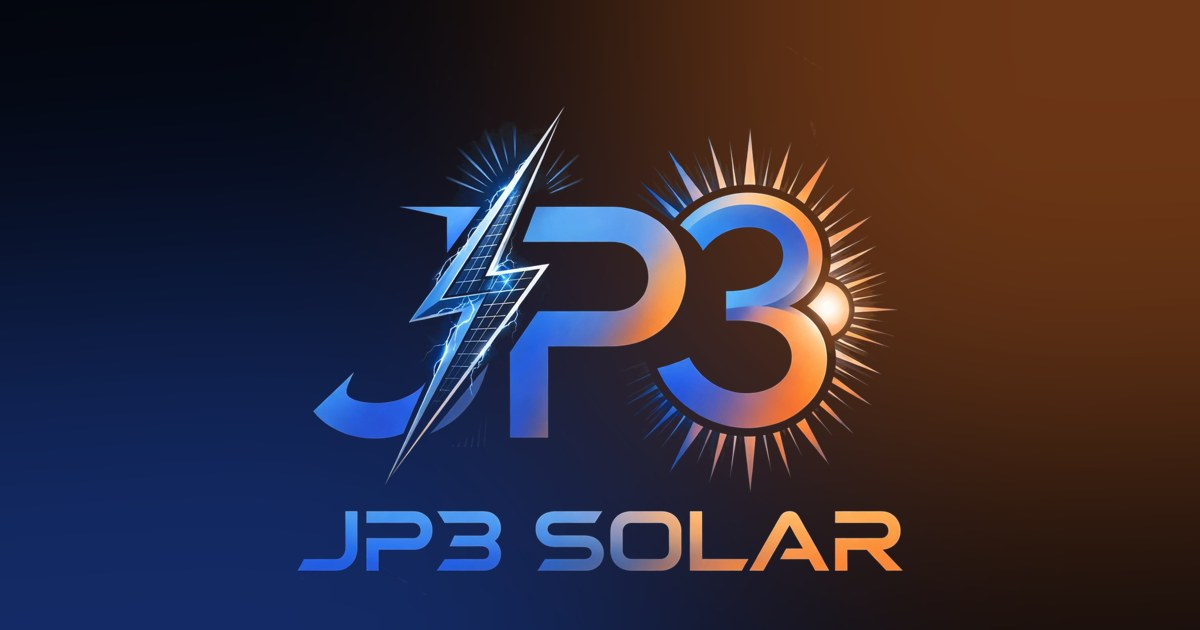
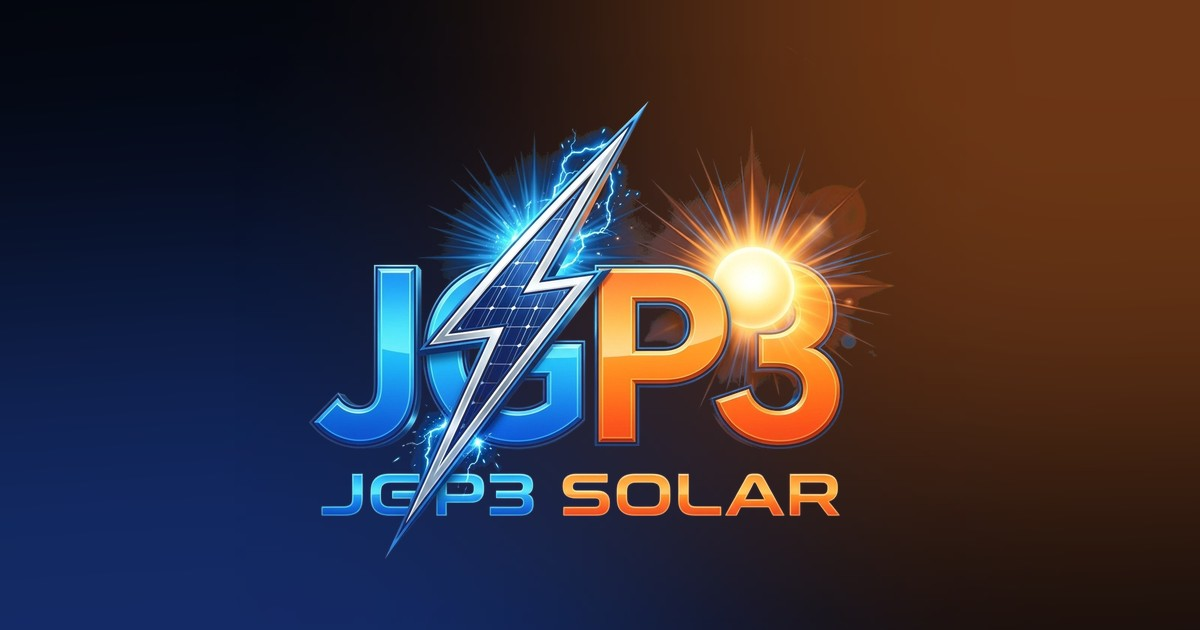
actualizando pagina

Changed region(s): [[0.2467, 0.181, 0.7708, 0.9048]]

diff --git a/index.html b/index.html
@@ -6,10 +6,10 @@
     <script>document.documentElement.classList.replace('no-js', 'js');</script>
 
     <!-- ============ SEO ============ -->
-    <title>JP3 Solar | Paneles solares, inversores y baterías de litio</title>
-    <meta name="description" content="Paneles solares, inversores y baterías de litio con asesoría experta y soporte técnico postventa. Calcula tu ahorro y cotiza por WhatsApp con JP3 Solar.">
-    <meta name="keywords" content="paneles solares, inversores solares, baterías de litio, LiFePO4, energía solar, sistema solar, ahorro de luz, soporte técnico postventa, JP3 Solar">
-    <meta name="author" content="JP3 Solar">
+    <title>JGP3 Solar | Paneles solares, inversores y baterías de litio</title>
+    <meta name="description" content="Paneles solares, inversores y baterías de litio con asesoría experta y soporte técnico postventa. Calcula tu ahorro y cotiza por WhatsApp con JGP3 Solar.">
+    <meta name="keywords" content="paneles solares, inversores solares, baterías de litio, LiFePO4, energía solar, sistema solar, ahorro de luz, soporte técnico postventa, JGP3 Solar">
+    <meta name="author" content="JGP3 Solar">
     <meta name="robots" content="index, follow, max-image-preview:large">
     <meta name="theme-color" content="#04060d">
     <!-- TODO producción: reemplazar por la URL final del dominio -->
@@ -17,12 +17,12 @@
 
     <meta property="og:type" content="website">
     <meta property="og:locale" content="es_MX">
-    <meta property="og:site_name" content="JP3 Solar">
-    <meta property="og:title" content="JP3 Solar | Haz que el sol pague tu luz">
+    <meta property="og:site_name" content="JGP3 Solar">
+    <meta property="og:title" content="JGP3 Solar | Haz que el sol pague tu luz">
     <meta property="og:description" content="Paneles solares, inversores y baterías de litio con asesoría experta y soporte técnico postventa.">
     <meta property="og:image" content="img/og-image.jpg"><!-- TODO producción: usar URL absoluta -->
     <meta name="twitter:card" content="summary_large_image">
-    <meta name="twitter:title" content="JP3 Solar | Haz que el sol pague tu luz">
+    <meta name="twitter:title" content="JGP3 Solar | Haz que el sol pague tu luz">
     <meta name="twitter:description" content="Paneles solares, inversores y baterías de litio. Calcula tu ahorro y cotiza por WhatsApp.">
     <meta name="twitter:image" content="img/og-image.jpg">
 
@@ -51,10 +51,10 @@
         {
           "@type": ["LocalBusiness", "Store"],
           "@id": "#negocio",
-          "name": "JP3 Solar",
+          "name": "JGP3 Solar",
           "description": "Venta de paneles solares, inversores y baterías de litio, con asesoría y soporte técnico postventa.",
           "image": "img/og-image.jpg",
-          "logo": "img/logo-full.png",
+          "logo": "img/logo-completo.png",
           "telephone": "+52 81 3122 2982",
           "areaServed": "MX",
           "knowsAbout": ["Paneles solares", "Inversores solares", "Baterías de litio LiFePO4", "Sistemas fotovoltaicos"],
@@ -67,7 +67,7 @@
         },
         {
           "@type": "WebSite",
-          "name": "JP3 Solar",
+          "name": "JGP3 Solar",
           "inLanguage": "es-MX"
         },
         {
@@ -98,7 +98,7 @@
 <!-- ======================================================================
      LOADER: pantalla de carga con anillo de progreso y cortina
      ====================================================================== -->
-<div id="loader" class="loader" role="status" aria-live="polite" aria-label="Cargando JP3 Solar">
+<div id="loader" class="loader" role="status" aria-live="polite" aria-label="Cargando JGP3 Solar">
     <div class="loader__panel loader__panel--top"></div>
     <div class="loader__panel loader__panel--bottom"></div>
     <div class="loader__stage">
@@ -114,7 +114,7 @@
                 <circle class="loader__track" cx="100" cy="100" r="92"/>
                 <circle class="loader__arc" cx="100" cy="100" r="92" pathLength="100"/>
             </svg>
-            <img class="loader__logo" src="img/logo-completo.png" alt="" width="1100" height="849">
+            <img class="loader__logo" src="img/logo-completo.png" alt="" width="953" height="754">
         </div>
         <p class="loader__label">
             <span class="loader__pct"><b data-loader-pct>0</b>%</span>
@@ -130,8 +130,8 @@
      ====================================================================== -->
 <header class="nav" data-nav>
     <div class="nav__bar">
-        <a class="nav__brand" href="#inicio" aria-label="JP3 Solar, ir al inicio">
-            <img src="img/logo-completo.png" alt="" width="1100" height="849" class="nav__mark">
+        <a class="nav__brand" href="#inicio" aria-label="JGP3 Solar, ir al inicio">
+            <img src="img/logo-completo.png" alt="" width="953" height="754" class="nav__mark">
         </a>
         <nav class="nav__links" aria-label="Principal">
             <a href="#soluciones">Soluciones</a>
@@ -141,7 +141,7 @@
             <a href="#faq">Preguntas</a>
         </nav>
         <div class="nav__actions">
-            <a class="btn btn--primary btn--sm" href="https://wa.me/528131222982" data-wa="Hola JP3 Solar, quiero cotizar un sistema solar." target="_blank" rel="noopener">
+            <a class="btn btn--primary btn--sm" href="https://wa.me/528131222982" data-wa="Hola JGP3 Solar, quiero cotizar un sistema solar." target="_blank" rel="noopener">
                 <i class="ph-fill ph-whatsapp-logo" aria-hidden="true"></i><span>Cotizar ahora</span>
             </a>
             <button class="nav__burger" type="button" aria-expanded="false" aria-controls="menu" aria-label="Abrir menú">
@@ -162,7 +162,7 @@
         <a href="#contacto"><span>Contacto</span><i class="ph-bold ph-arrow-up-right" aria-hidden="true"></i></a>
     </nav>
     <div class="menu__foot">
-        <a class="btn btn--primary btn--lg" href="https://wa.me/528131222982" data-wa="Hola JP3 Solar, quiero hablar con un asesor." target="_blank" rel="noopener">
+        <a class="btn btn--primary btn--lg" href="https://wa.me/528131222982" data-wa="Hola JGP3 Solar, quiero hablar con un asesor." target="_blank" rel="noopener">
             <i class="ph-fill ph-whatsapp-logo" aria-hidden="true"></i><span>Hablar con un asesor</span>
         </a>
         <a class="menu__tel" href="tel:+528131222982">81 3122 2982</a>
@@ -189,7 +189,7 @@
                 <h1 class="hero__title" id="hero-title" data-split>Haz que el sol <span class="grad">pague tu luz.</span></h1>
                 <p class="hero__sub" data-hero-in>Paneles solares, inversores y baterías de litio con asesoría experta y soporte técnico postventa.</p>
                 <div class="hero__cta" data-hero-in>
-                    <a class="btn btn--primary btn--lg magnetic" href="https://wa.me/528131222982" data-wa="Hola JP3 Solar, quiero mi cotización de energía solar." target="_blank" rel="noopener">
+                    <a class="btn btn--primary btn--lg magnetic" href="https://wa.me/528131222982" data-wa="Hola JGP3 Solar, quiero mi cotización de energía solar." target="_blank" rel="noopener">
                         <i class="ph-fill ph-whatsapp-logo" aria-hidden="true"></i><span>Quiero mi cotización</span>
                     </a>
                     <a class="btn btn--ghost btn--lg" href="#calculadora">
@@ -261,7 +261,7 @@
                         <span class="tile__icon"><i class="ph-bold ph-solar-panel" aria-hidden="true"></i></span>
                         <h3 class="h3">Paneles solares</h3>
                         <p>Captura el sol con módulos de alta eficiencia para tu casa, tu negocio o tu industria.</p>
-                        <a class="link-arrow" href="https://wa.me/528131222982" data-wa="Hola JP3 Solar, quiero paneles solares para mi techo." target="_blank" rel="noopener">Quiero paneles para mi techo <i class="ph-bold ph-arrow-right" aria-hidden="true"></i></a>
+                        <a class="link-arrow" href="https://wa.me/528131222982" data-wa="Hola JGP3 Solar, quiero paneles solares para mi techo." target="_blank" rel="noopener">Quiero paneles para mi techo <i class="ph-bold ph-arrow-right" aria-hidden="true"></i></a>
                     </div>
                 </article>
 
@@ -298,7 +298,7 @@
                         <span class="tile__icon"><i class="ph-bold ph-headset" aria-hidden="true"></i></span>
                         <h3 class="h3">Asesoría y soporte postventa</h3>
                         <p>Te guiamos antes de comprar y te acompañamos después. Un asesor real resuelve tus dudas técnicas.</p>
-                        <a class="link-arrow" href="https://wa.me/528131222982" data-wa="Hola JP3 Solar, quiero asesoría para mi proyecto solar." target="_blank" rel="noopener">Quiero asesoría ahora <i class="ph-bold ph-arrow-right" aria-hidden="true"></i></a>
+                        <a class="link-arrow" href="https://wa.me/528131222982" data-wa="Hola JGP3 Solar, quiero asesoría para mi proyecto solar." target="_blank" rel="noopener">Quiero asesoría ahora <i class="ph-bold ph-arrow-right" aria-hidden="true"></i></a>
                     </div>
                 </article>
             </div>
@@ -320,7 +320,7 @@
             </h2>
             <div class="expand__caption" data-expand-caption>
                 <p>Cada rayo que cae sobre tu techo es energía que hoy no estás aprovechando. Conviértela en ahorro.</p>
-                <a class="btn btn--primary btn--lg" href="https://wa.me/528131222982" data-wa="Hola JP3 Solar, estoy listo para aprovechar la energía de mi techo." target="_blank" rel="noopener">
+                <a class="btn btn--primary btn--lg" href="https://wa.me/528131222982" data-wa="Hola JGP3 Solar, estoy listo para aprovechar la energía de mi techo." target="_blank" rel="noopener">
                     <i class="ph-fill ph-whatsapp-logo" aria-hidden="true"></i><span>Estoy listo, empecemos</span>
                 </a>
             </div>
@@ -429,7 +429,7 @@
                             <span class="pcard__tag">Inversor</span>
                             <h3>Growatt SPF 3 a 6 kW</h3>
                             <p>Inversor solar monofásico con pantalla LCD y diseño de pared.</p>
-                            <a class="pcard__cta" href="https://wa.me/528131222982" data-wa="Hola JP3 Solar, quiero cotizar el Inversor Growatt SPF 3 a 6 kW." target="_blank" rel="noopener">Cotizar este equipo <i class="ph-bold ph-arrow-up-right" aria-hidden="true"></i></a>
+                            <a class="pcard__cta" href="https://wa.me/528131222982" data-wa="Hola JGP3 Solar, quiero cotizar el Inversor Growatt SPF 3 a 6 kW." target="_blank" rel="noopener">Cotizar este equipo <i class="ph-bold ph-arrow-up-right" aria-hidden="true"></i></a>
                         </div>
                     </li>
 
@@ -442,7 +442,7 @@
                             <span class="pcard__tag">Batería de litio</span>
                             <h3>Felicity Solar de pared</h3>
                             <p>Almacenamiento de pared con indicador circular de estado.</p>
-                            <a class="pcard__cta" href="https://wa.me/528131222982" data-wa="Hola JP3 Solar, quiero cotizar la Batería de pared Felicity Solar." target="_blank" rel="noopener">Cotizar este equipo <i class="ph-bold ph-arrow-up-right" aria-hidden="true"></i></a>
+                            <a class="pcard__cta" href="https://wa.me/528131222982" data-wa="Hola JGP3 Solar, quiero cotizar la Batería de pared Felicity Solar." target="_blank" rel="noopener">Cotizar este equipo <i class="ph-bold ph-arrow-up-right" aria-hidden="true"></i></a>
                         </div>
                     </li>
 
@@ -455,7 +455,7 @@
                             <span class="pcard__tag">Inversor</span>
                             <h3>MUST Solar Inverter</h3>
                             <p>Inversor de pared con pantalla LCD y controles frontales.</p>
-                            <a class="pcard__cta" href="https://wa.me/528131222982" data-wa="Hola JP3 Solar, quiero cotizar el Inversor solar MUST." target="_blank" rel="noopener">Cotizar este equipo <i class="ph-bold ph-arrow-up-right" aria-hidden="true"></i></a>
+                            <a class="pcard__cta" href="https://wa.me/528131222982" data-wa="Hola JGP3 Solar, quiero cotizar el Inversor solar MUST." target="_blank" rel="noopener">Cotizar este equipo <i class="ph-bold ph-arrow-up-right" aria-hidden="true"></i></a>
                         </div>
                     </li>
 
@@ -468,7 +468,7 @@
                             <span class="pcard__tag">Batería de litio</span>
                             <h3>Growatt Hope 5.0L</h3>
                             <p>Módulos de rack apilables: crece según tu consumo.</p>
-                            <a class="pcard__cta" href="https://wa.me/528131222982" data-wa="Hola JP3 Solar, quiero cotizar la Batería Growatt Hope 5.0L." target="_blank" rel="noopener">Cotizar este equipo <i class="ph-bold ph-arrow-up-right" aria-hidden="true"></i></a>
+                            <a class="pcard__cta" href="https://wa.me/528131222982" data-wa="Hola JGP3 Solar, quiero cotizar la Batería Growatt Hope 5.0L." target="_blank" rel="noopener">Cotizar este equipo <i class="ph-bold ph-arrow-up-right" aria-hidden="true"></i></a>
                         </div>
                     </li>
 
@@ -481,7 +481,7 @@
                             <span class="pcard__tag">Inversor</span>
                             <h3>Growatt con pantalla a color</h3>
                             <p>Diseño compacto para monitorear tu energía de un vistazo.</p>
-                            <a class="pcard__cta" href="https://wa.me/528131222982" data-wa="Hola JP3 Solar, quiero cotizar el Inversor Growatt con pantalla a color." target="_blank" rel="noopener">Cotizar este equipo <i class="ph-bold ph-arrow-up-right" aria-hidden="true"></i></a>
+                            <a class="pcard__cta" href="https://wa.me/528131222982" data-wa="Hola JGP3 Solar, quiero cotizar el Inversor Growatt con pantalla a color." target="_blank" rel="noopener">Cotizar este equipo <i class="ph-bold ph-arrow-up-right" aria-hidden="true"></i></a>
                         </div>
                     </li>
 
@@ -494,7 +494,7 @@
                             <span class="pcard__tag">Batería de litio</span>
                             <h3>Banco modular MUST LiFePO4</h3>
                             <p>Módulos apilables más batería de pared para crecer por etapas.</p>
-                            <a class="pcard__cta" href="https://wa.me/528131222982" data-wa="Hola JP3 Solar, quiero cotizar el Banco modular de baterías MUST LiFePO4." target="_blank" rel="noopener">Cotizar este equipo <i class="ph-bold ph-arrow-up-right" aria-hidden="true"></i></a>
+                            <a class="pcard__cta" href="https://wa.me/528131222982" data-wa="Hola JGP3 Solar, quiero cotizar el Banco modular de baterías MUST LiFePO4." target="_blank" rel="noopener">Cotizar este equipo <i class="ph-bold ph-arrow-up-right" aria-hidden="true"></i></a>
                         </div>
                     </li>
 
@@ -507,7 +507,7 @@
                             <span class="pcard__tag">Batería de litio</span>
                             <h3>MUST LiFePO4 de pared</h3>
                             <p>Litio de pared con pantalla de estado y conexiones frontales.</p>
-                            <a class="pcard__cta" href="https://wa.me/528131222982" data-wa="Hola JP3 Solar, quiero cotizar la Batería de pared MUST LiFePO4." target="_blank" rel="noopener">Cotizar este equipo <i class="ph-bold ph-arrow-up-right" aria-hidden="true"></i></a>
+                            <a class="pcard__cta" href="https://wa.me/528131222982" data-wa="Hola JGP3 Solar, quiero cotizar la Batería de pared MUST LiFePO4." target="_blank" rel="noopener">Cotizar este equipo <i class="ph-bold ph-arrow-up-right" aria-hidden="true"></i></a>
                         </div>
                     </li>
 
@@ -520,7 +520,7 @@
                             <span class="pcard__tag">Inversor</span>
                             <h3>Growatt de pared</h3>
                             <p>Acabado blanco con panel frontal oscuro, hecho para sistemas fotovoltaicos.</p>
-                            <a class="pcard__cta" href="https://wa.me/528131222982" data-wa="Hola JP3 Solar, quiero cotizar el Inversor Growatt de pared." target="_blank" rel="noopener">Cotizar este equipo <i class="ph-bold ph-arrow-up-right" aria-hidden="true"></i></a>
+                            <a class="pcard__cta" href="https://wa.me/528131222982" data-wa="Hola JGP3 Solar, quiero cotizar el Inversor Growatt de pared." target="_blank" rel="noopener">Cotizar este equipo <i class="ph-bold ph-arrow-up-right" aria-hidden="true"></i></a>
                         </div>
                     </li>
 
@@ -533,7 +533,7 @@
                             <span class="pcard__tag">Batería de litio</span>
                             <h3>Growatt de rack</h3>
                             <p>Terminales de potencia y puertos de comunicación para integrarla fácil.</p>
-                            <a class="pcard__cta" href="https://wa.me/528131222982" data-wa="Hola JP3 Solar, quiero cotizar la Batería de rack Growatt." target="_blank" rel="noopener">Cotizar este equipo <i class="ph-bold ph-arrow-up-right" aria-hidden="true"></i></a>
+                            <a class="pcard__cta" href="https://wa.me/528131222982" data-wa="Hola JGP3 Solar, quiero cotizar la Batería de rack Growatt." target="_blank" rel="noopener">Cotizar este equipo <i class="ph-bold ph-arrow-up-right" aria-hidden="true"></i></a>
                         </div>
                     </li>
 
@@ -546,7 +546,7 @@
                             <span class="pcard__tag">Inversor</span>
                             <h3>MUST de montaje robusto</h3>
                             <p>Carcasa resistente y base metálica para una instalación firme.</p>
-                            <a class="pcard__cta" href="https://wa.me/528131222982" data-wa="Hola JP3 Solar, quiero cotizar el Inversor MUST de montaje robusto." target="_blank" rel="noopener">Cotizar este equipo <i class="ph-bold ph-arrow-up-right" aria-hidden="true"></i></a>
+                            <a class="pcard__cta" href="https://wa.me/528131222982" data-wa="Hola JGP3 Solar, quiero cotizar el Inversor MUST de montaje robusto." target="_blank" rel="noopener">Cotizar este equipo <i class="ph-bold ph-arrow-up-right" aria-hidden="true"></i></a>
                         </div>
                     </li>
 
@@ -555,7 +555,7 @@
                             <span class="tile__icon"><i class="ph-bold ph-magnifying-glass" aria-hidden="true"></i></span>
                             <h3>¿No ves el equipo que buscas?</h3>
                             <p>Tenemos más marcas y capacidades. Dinos qué necesitas y lo encontramos.</p>
-                            <a class="btn btn--primary btn--lg" href="https://wa.me/528131222982" data-wa="Hola JP3 Solar, busco un equipo solar y no lo veo en la página. ¿Me ayudan?" target="_blank" rel="noopener">
+                            <a class="btn btn--primary btn--lg" href="https://wa.me/528131222982" data-wa="Hola JGP3 Solar, busco un equipo solar y no lo veo en la página. ¿Me ayudan?" target="_blank" rel="noopener">
                                 <i class="ph-fill ph-whatsapp-logo" aria-hidden="true"></i><span>Pregúntanos por tu equipo</span>
                             </a>
                         </div>
@@ -633,7 +633,7 @@
                     </div>
                 </dl>
 
-                <a class="btn btn--primary btn--lg btn--block" href="https://wa.me/528131222982" data-calc-cta data-wa="Hola JP3 Solar, quiero mi cotización." target="_blank" rel="noopener">
+                <a class="btn btn--primary btn--lg btn--block" href="https://wa.me/528131222982" data-calc-cta data-wa="Hola JGP3 Solar, quiero mi cotización." target="_blank" rel="noopener">
                     <i class="ph-fill ph-whatsapp-logo" aria-hidden="true"></i><span>Estoy listo, quiero este sistema</span>
                 </a>
                 <p class="calc__note">Estimación orientativa con tarifa promedio y 5 horas de sol pico al día. Tu cotización formal se calcula con tu recibo real.</p>
@@ -724,7 +724,7 @@
             </div>
 
             <div class="process__cta" data-reveal>
-                <a class="btn btn--primary btn--lg" href="https://wa.me/528131222982" data-wa="Hola JP3 Solar, quiero dar el primer paso hacia mi sistema solar." target="_blank" rel="noopener">
+                <a class="btn btn--primary btn--lg" href="https://wa.me/528131222982" data-wa="Hola JGP3 Solar, quiero dar el primer paso hacia mi sistema solar." target="_blank" rel="noopener">
                     <i class="ph-fill ph-whatsapp-logo" aria-hidden="true"></i><span>Dar el primer paso</span>
                 </a>
             </div>
@@ -768,7 +768,7 @@
             <div class="faq__copy" data-reveal>
                 <h2 class="h2" id="faq-title" data-split>Resuelve tus dudas antes de dar el paso</h2>
                 <p class="lead">Lo que más nos preguntan quienes quieren pasarse a la energía solar.</p>
-                <a class="btn btn--dark btn--lg" href="https://wa.me/528131222982" data-wa="Hola JP3 Solar, tengo una duda sobre energía solar." target="_blank" rel="noopener">
+                <a class="btn btn--dark btn--lg" href="https://wa.me/528131222982" data-wa="Hola JGP3 Solar, tengo una duda sobre energía solar." target="_blank" rel="noopener">
                     <i class="ph-fill ph-whatsapp-logo" aria-hidden="true"></i><span>Prefiero preguntar por WhatsApp</span>
                 </a>
             </div>
@@ -817,7 +817,7 @@
                 <ul class="contact__list">
                     <li>
                         <span class="contact__ico"><i class="ph-fill ph-whatsapp-logo" aria-hidden="true"></i></span>
-                        <div><strong>WhatsApp</strong><a href="https://wa.me/528131222982" data-wa="Hola JP3 Solar, quiero información." target="_blank" rel="noopener">81 3122 2982</a></div>
+                        <div><strong>WhatsApp</strong><a href="https://wa.me/528131222982" data-wa="Hola JGP3 Solar, quiero información." target="_blank" rel="noopener">81 3122 2982</a></div>
                     </li>
                     <li>
                         <span class="contact__ico"><i class="ph-bold ph-headset" aria-hidden="true"></i></span>
@@ -825,7 +825,7 @@
                     </li>
                 </ul>
 
-                <a class="btn btn--primary btn--lg" href="https://wa.me/528131222982" data-wa="Hola JP3 Solar, quiero hablar con un asesor ahora." target="_blank" rel="noopener">
+                <a class="btn btn--primary btn--lg" href="https://wa.me/528131222982" data-wa="Hola JGP3 Solar, quiero hablar con un asesor ahora." target="_blank" rel="noopener">
                     <i class="ph-fill ph-whatsapp-logo" aria-hidden="true"></i><span>Hablar con un asesor ahora</span>
                 </a>
             </div>
@@ -888,7 +888,7 @@
 <footer class="footer">
     <div class="container footer__grid">
         <div class="footer__brand">
-            <img src="img/logo-full.png" alt="JP3 Solar" width="1100" height="974" loading="lazy" decoding="async">
+            <img src="img/logo-completo.png" alt="JGP3 Solar" width="953" height="754" loading="lazy" decoding="async">
             <p>Paneles solares, inversores y baterías de litio con asesoría experta y soporte técnico postventa.</p>
         </div>
         <nav class="footer__col" aria-label="Navegación del pie">
@@ -901,19 +901,28 @@
         </nav>
         <div class="footer__col">
             <h3>Contacto</h3>
-            <a href="https://wa.me/528131222982" data-wa="Hola JP3 Solar, quiero información." target="_blank" rel="noopener">WhatsApp 81 3122 2982</a>
+            <a href="https://wa.me/528131222982" data-wa="Hola JGP3 Solar, quiero información." target="_blank" rel="noopener">WhatsApp 81 3122 2982</a>
             <a href="tel:+528131222982">Llamar ahora</a>
             <span>Asesoría y soporte postventa</span>
         </div>
     </div>
+    <div class="container footer__notes">
+        <p>En JGP3 Solar estamos comprometidos con ofrecer equipos de calidad y acompañamiento técnico. Todas las garantías están sujetas a las condiciones del fabricante y a la verificación técnica del equipo. Si detectas una falla, te pediremos fotos, videos y el número de serie para revisar tu caso. Si aplica garantía, te orientamos con el procedimiento. Los costos de envío dependen del motivo y te los informamos antes. Nuestro objetivo es que compres con confianza y recibas atención responsable antes y después de tu compra.</p>
+        <div class="footer__sheet">
+            <p>Si requieres la ficha técnica de algún equipo, te la enviamos por WhatsApp.</p>
+            <a class="btn btn--ghost btn--lg" href="https://wa.me/528131222982" data-wa="Hola JGP3 Solar, quiero solicitar la ficha técnica del equipo: " target="_blank" rel="noopener">
+                <i class="ph-bold ph-file-text" aria-hidden="true"></i><span>Solicitar ficha técnica</span>
+            </a>
+        </div>
+    </div>
     <div class="container footer__bottom">
-        <p>© 2026 JP3 Solar. Todos los derechos reservados.</p>
+        <p>© 2026 JGP3 Solar. Todos los derechos reservados.</p>
         <p class="footer__credit">Fotografías de Unsplash. Imágenes de equipos cortesía de los fabricantes.</p>
     </div>
 </footer>
 
 <!-- Botón flotante de WhatsApp -->
-<a class="wa-float" href="https://wa.me/528131222982" data-wa="Hola JP3 Solar, quiero información sobre energía solar." target="_blank" rel="noopener" aria-label="Escríbenos por WhatsApp">
+<a class="wa-float" href="https://wa.me/528131222982" data-wa="Hola JGP3 Solar, quiero información sobre energía solar." target="_blank" rel="noopener" aria-label="Escríbenos por WhatsApp">
     <span class="wa-float__tip">¿Hablamos de tu ahorro?</span>
     <span class="wa-float__btn"><i class="ph-fill ph-whatsapp-logo" aria-hidden="true"></i></span>
 </a>
@@ -928,9 +937,14 @@
         <figcaption>
             <h3 id="lb-title"></h3>
             <p id="lb-desc"></p>
-            <a class="btn btn--primary btn--lg" id="lb-cta" href="https://wa.me/528131222982" target="_blank" rel="noopener">
-                <i class="ph-fill ph-whatsapp-logo" aria-hidden="true"></i><span>Quiero cotizar este equipo</span>
-            </a>
+            <div class="lightbox__actions">
+                <a class="btn btn--primary btn--lg" id="lb-cta" href="https://wa.me/528131222982" target="_blank" rel="noopener">
+                    <i class="ph-fill ph-whatsapp-logo" aria-hidden="true"></i><span>Quiero cotizar este equipo</span>
+                </a>
+                <a class="btn btn--ghost btn--sm" id="lb-sheet" href="https://wa.me/528131222982" target="_blank" rel="noopener">
+                    <i class="ph-bold ph-file-text" aria-hidden="true"></i><span>Solicitar ficha técnica</span>
+                </a>
+            </div>
         </figcaption>
     </figure>
 </dialog>

diff --git a/app.js b/app.js
@@ -788,7 +788,7 @@
 
             if (cta) {
                 const lines = [
-                    `Hola JP3 Solar, mi recibo de luz es de aproximadamente ${money.format(r.bimonthly)} bimestrales (${r.uso}).`,
+                    `Hola JGP3 Solar, mi recibo de luz es de aproximadamente ${money.format(r.bimonthly)} bimestrales (${r.uso}).`,
                     `La calculadora sugiere unos ${r.kwp.toFixed(1)} kWp (${r.panels} paneles)${battery.checked ? ' con respaldo de baterías de litio' : ''}.`,
                     'Estoy listo, quiero mi cotización.'
                 ];
@@ -842,7 +842,7 @@
             const interests = $$('input[name="interes"]:checked', form).map((i) => i.value);
             const project = form.elements.proyecto.value;
             const msg = form.elements.mensaje.value.trim();
-            const lines = [`Hola JP3 Solar, soy ${name.value.trim()}.`];
+            const lines = [`Hola JGP3 Solar, soy ${name.value.trim()}.`];
             lines.push(`Me interesa: ${interests.length ? interests.join(', ') : 'información general sobre energía solar'}.`);
             if (project) lines.push(`Tipo de proyecto: ${project}.`);
             if (msg) lines.push(`Detalles: ${msg}`);
@@ -879,6 +879,7 @@
         const title = $('#lb-title');
         const desc = $('#lb-desc');
         const cta = $('#lb-cta');
+        const sheet = $('#lb-sheet');
         let index = 0;
 
         const render = (i) => {
@@ -891,7 +892,8 @@
             img.height = src.height;
             title.textContent = p.dataset.name;
             desc.textContent = p.dataset.desc;
-            cta.href = waUrl(`Hola JP3 Solar, quiero cotizar: ${p.dataset.name}.`);
+            cta.href = waUrl(`Hola JGP3 Solar, quiero cotizar: ${p.dataset.name}.`);
+            sheet.href = waUrl(`Hola JGP3 Solar, quiero solicitar la ficha técnica de: ${p.dataset.name}.`);
         };
         plates.forEach((p, i) => p.addEventListener('click', () => {
             render(i);

diff --git a/styles.css b/styles.css
@@ -589,6 +589,7 @@ html.lenis, html.lenis body { height: auto; }
 .lightbox h3 { font: 700 clamp(1.4rem, 1.1rem + 1.4vw, 2.1rem)/1.1 var(--font-d); letter-spacing: -.03em; }
 .lightbox p { color: var(--on-dark-2); max-width: 60ch; }
 .lightbox figcaption .btn { margin-top: 6px; }
+.lightbox__actions { display: flex; flex-wrap: wrap; align-items: center; gap: 4px 12px; }
 .lightbox__close, .lightbox__nav {
     position: absolute; z-index: 5; display: grid; place-items: center; width: 48px; height: 48px; border-radius: 50%;
     background: rgba(255, 255, 255, .12); color: #fff; font-size: 1.2rem; box-shadow: inset 0 0 0 1px rgba(255, 255, 255, .2);
@@ -801,6 +802,9 @@ select.input { -webkit-appearance: none; appearance: none; padding-right: 2.6rem
 .footer__col h3 { font: 500 .76rem/1 var(--font-m); letter-spacing: .16em; text-transform: uppercase; color: var(--amber); margin-bottom: 8px; }
 .footer__col a { width: max-content; transition: color .3s; }
 .footer__col a:hover { color: #fff; }
+.footer__notes { display: grid; gap: 22px; padding-block: 32px; border-top: 1px solid var(--line-d); }
+.footer__notes p { max-width: 80ch; font-size: .92rem; line-height: 1.65; }
+.footer__sheet { display: grid; gap: 14px; justify-items: start; }
 .footer__bottom { display: grid; gap: 8px; padding-block: 24px max(28px, env(safe-area-inset-bottom)); padding-right: calc(var(--gutter) + 72px); border-top: 1px solid var(--line-d); font-size: .86rem; }
 .footer__credit { opacity: .75; }
 
